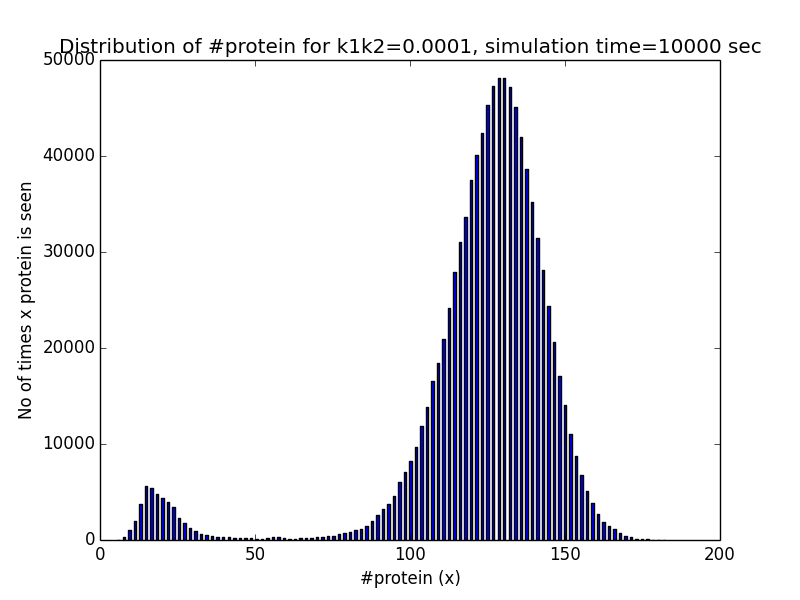
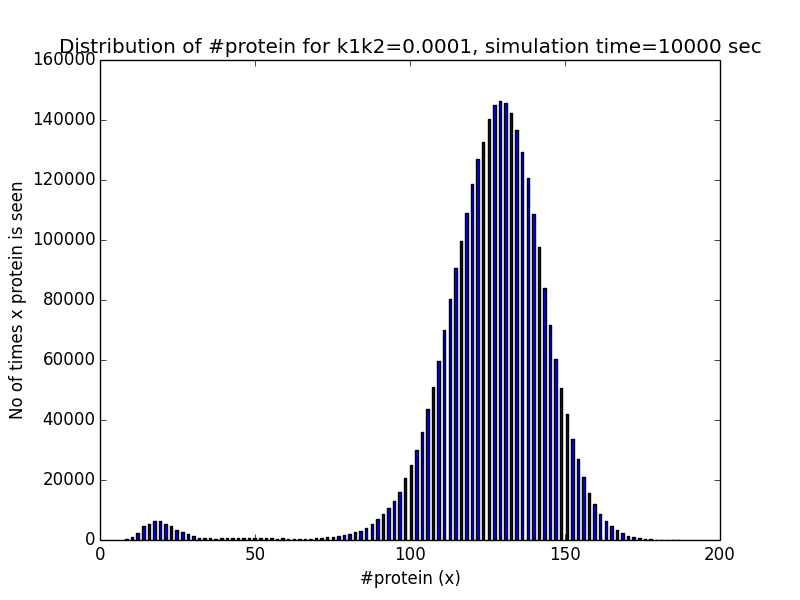
Using gnuplot to plot data. Not using cairo at all.

diff --git a/RandomnessInBiology_Monsoon_2014/Assignment07/solve.py b/RandomnessInBiology_Monsoon_2014/Assignment07/solve.py
@@ -223,7 +223,7 @@ def main(problem = 1):
     gs = GeneticSwitch(k1k2=1e-4, init=0)
     print("++ Solving problem no {}".format(problem))
     if problem == 1:
-        gs.run(step = 0.01, stop = 10000, ntimes = 1)
+        gs.run(step = 0.01, stop = 10000, ntimes = 3)
         gs.plotTrajectories(save = True)
         gs.plotHistogram( save = True)
     elif problem == 2:
@@ -234,4 +234,4 @@ def main(problem = 1):
                 thresholdB = 125)
 
 if __name__ == '__main__':
-    main(2)
+    main(1)
